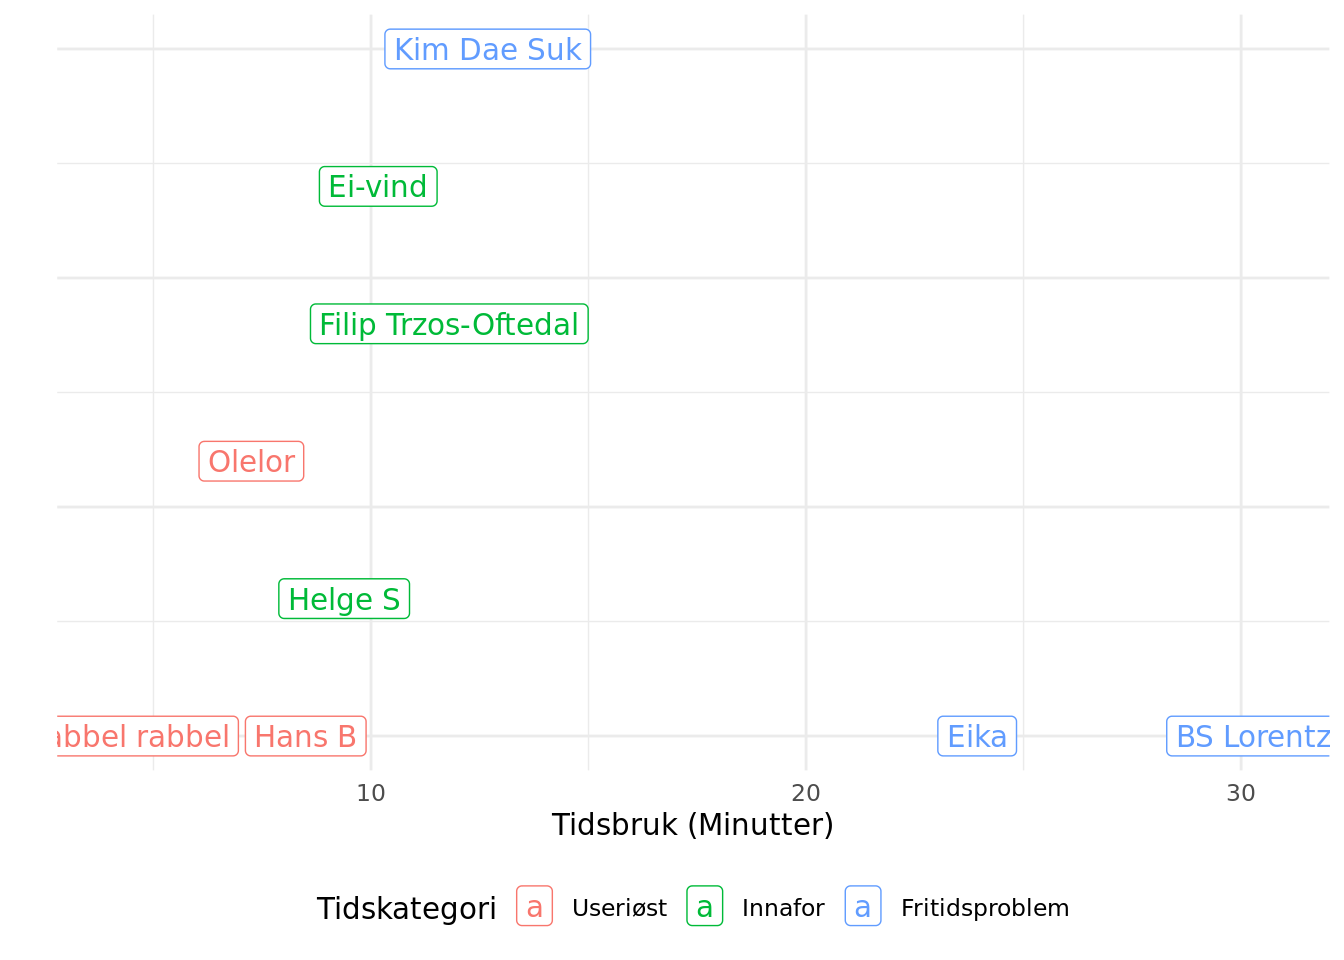
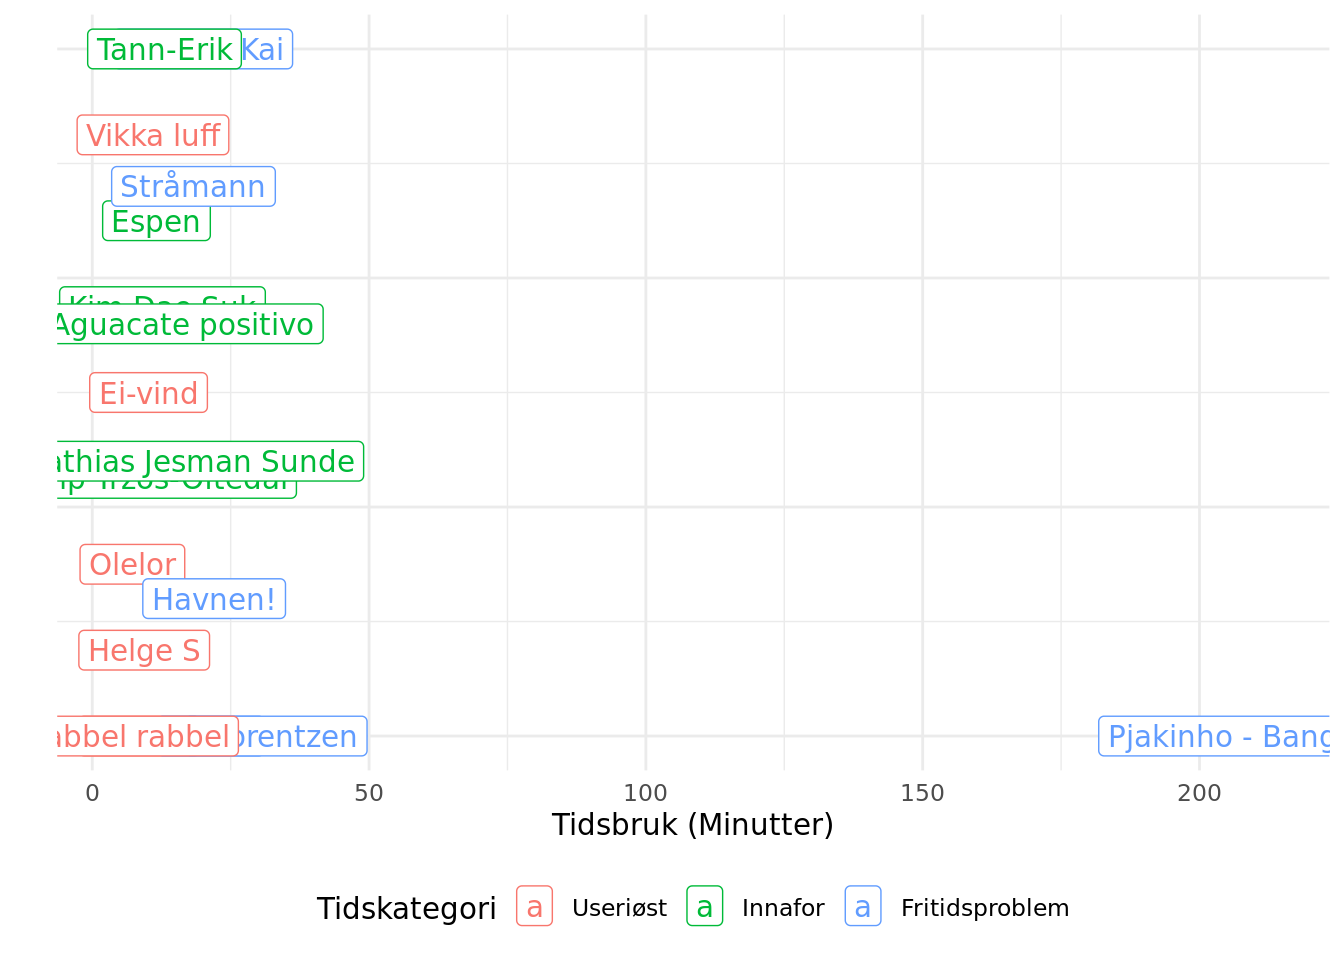
Produksjon!

diff --git a/docs/index.html b/docs/index.html
@@ -88,7 +88,7 @@ ul.task-list li input[type="checkbox"] {
 <p><img src="bilder/fifa.jpg" class="img-fluid"></p>
 <p>Denne rapporten viser resultatene fra VM-tuppekunkurransen. Utrolig avansert analyse er anvendt for å tolke innsendte tippelapper. Analysene tyter ut i figurer og tabeller i det følgende notatet. Si gjerne fra om du har forslag til analyser eller ser feil i dataene.</p>
 <p>God lesning!</p>
-<p>Notatet er oppdatert 10. juni 2026</p>
+<p>Notatet er oppdatert 11. juni 2026</p>
 <p>Alle svar som er levert inn ligger her: <a href="tippelapper.html">Tippelapper</a></p>
 <!--
 Her er pekere til tidligere versjoner av rapporten:
@@ -99,7 +99,7 @@ Her er pekere til tidligere versjoner av rapporten:
 <h2 data-number="1" class="anchored" data-anchor-id="datagrunnlag"><span class="header-section-number">1</span> Datagrunnlag</h2>
 <p><img src="bilder/lagbilde.jpg" class="img-fluid"></p>
 <p>Her kommer det sylskarpe analyser av svarene som er sendt inn. Analysene handler mest om å sette opp foreløpig stilling i tippekonkurransen, holde motet oppe for de som ikke har fått så mange rett foreløpig og å la de som har tippet ulikt få vite det. Den siste kan kanskje generere små bets foran TV-skjermen?</p>
-<p>Vi har fått inn 9 svar. Figuren viser når disse svarene har kommet inn. Mange har ventet i det lengste for å få inn så stort beslutningsgrunnlag som mulig. Andre har nok glemt å fylle ut.</p>
+<p>Vi har fått inn 18 svar. Figuren viser når disse svarene har kommet inn. Mange har ventet i det lengste for å få inn så stort beslutningsgrunnlag som mulig. Andre har nok glemt å fylle ut.</p>
 <div class="cell">
 <div class="cell-output-display">
 <div>
@@ -151,13 +151,13 @@ På kveldstid, huskeregel: når munnteipen er på, skal vi unngå lyskilder som 
 <p>Den neste tabellen viser et innblikk i grupperesultatene som var mest typiske og mest utypiske i tippekupongene. I den første tabellen vises de grupperesultatene som flest har tippet.</p>
 <div class="cell">
 <div class="cell-output-display">
-<div class="tabwid"><style>.cl-7375043a{table-layout:auto;}.cl-736b84a0{font-family:'Arial';font-size:11pt;font-weight:normal;font-style:normal;text-decoration:none;color:rgba(0, 0, 0, 1.00);background-color:transparent;}.cl-7370a76e{margin:0;text-align:left;border-bottom: 0 solid rgba(0, 0, 0, 1.00);border-top: 0 solid rgba(0, 0, 0, 1.00);border-left: 0 solid rgba(0, 0, 0, 1.00);border-right: 0 solid rgba(0, 0, 0, 1.00);padding-bottom:5pt;padding-top:5pt;padding-left:5pt;padding-right:5pt;line-height: 1;background-color:transparent;}.cl-7370d6da{background-color:transparent;vertical-align: middle;border-bottom: 1.5pt solid rgba(102, 102, 102, 1.00);border-top: 1.5pt solid rgba(102, 102, 102, 1.00);border-left: 0 solid rgba(0, 0, 0, 1.00);border-right: 0 solid rgba(0, 0, 0, 1.00);margin-bottom:0;margin-top:0;margin-left:0;margin-right:0;}.cl-7370d6e4{background-color:transparent;vertical-align: middle;border-bottom: 0 solid rgba(0, 0, 0, 1.00);border-top: 0 solid rgba(0, 0, 0, 1.00);border-left: 0 solid rgba(0, 0, 0, 1.00);border-right: 0 solid rgba(0, 0, 0, 1.00);margin-bottom:0;margin-top:0;margin-left:0;margin-right:0;}.cl-7370d6e5{background-color:transparent;vertical-align: middle;border-bottom: 1.5pt solid rgba(102, 102, 102, 1.00);border-top: 0 solid rgba(0, 0, 0, 1.00);border-left: 0 solid rgba(0, 0, 0, 1.00);border-right: 0 solid rgba(0, 0, 0, 1.00);margin-bottom:0;margin-top:0;margin-left:0;margin-right:0;}</style><table data-quarto-disable-processing="true" class="cl-7375043a"><thead><tr style="overflow-wrap:break-word;"><th class="cl-7370d6da"><p class="cl-7370a76e"><span class="cl-736b84a0">Gruppe</span></p></th><th class="cl-7370d6da"><p class="cl-7370a76e"><span class="cl-736b84a0">Mest vanlig rekkefølge</span></p></th><th class="cl-7370d6da"><p class="cl-7370a76e"><span class="cl-736b84a0">Hvem</span></p></th></tr></thead><tbody><tr style="overflow-wrap:break-word;"><td class="cl-7370d6e4"><p class="cl-7370a76e"><span class="cl-736b84a0">A</span></p></td><td class="cl-7370d6e4"><p class="cl-7370a76e"><span class="cl-736b84a0">Mexico, Sør-Korea, Tsjekkia, Sør-Afrika</span></p></td><td class="cl-7370d6e4"><p class="cl-7370a76e"><span class="cl-736b84a0">Hans B, Filip Trzos-Oftedal, Kim Dae Suk</span></p></td></tr><tr style="overflow-wrap:break-word;"><td class="cl-7370d6e4"><p class="cl-7370a76e"><span class="cl-736b84a0">B</span></p></td><td class="cl-7370d6e4"><p class="cl-7370a76e"><span class="cl-736b84a0">Sveits, Bosnia-Hercegovina, Canada, Qatar</span></p></td><td class="cl-7370d6e4"><p class="cl-7370a76e"><span class="cl-736b84a0">Hans B, Olelor, Filip Trzos-Oftedal, BS Lorentzen</span></p></td></tr><tr style="overflow-wrap:break-word;"><td class="cl-7370d6e4"><p class="cl-7370a76e"><span class="cl-736b84a0">C</span></p></td><td class="cl-7370d6e4"><p class="cl-7370a76e"><span class="cl-736b84a0">Brasil, Marokko, Skottland, Haiti</span></p></td><td class="cl-7370d6e4"><p class="cl-7370a76e"><span class="cl-736b84a0">Eika, Helge S, BS Lorentzen, Kim Dae Suk</span></p></td></tr><tr style="overflow-wrap:break-word;"><td class="cl-7370d6e5"><p class="cl-7370a76e"><span class="cl-736b84a0">D</span></p></td><td class="cl-7370d6e5"><p class="cl-7370a76e"><span class="cl-736b84a0">Tyrkia, Paraguay, USA, Australia</span></p></td><td class="cl-7370d6e5"><p class="cl-7370a76e"><span class="cl-736b84a0">Ei-vind, BS Lorentzen, C-rabbel rabbel</span></p></td></tr></tbody></table></div>
+<div class="tabwid"><style>.cl-e3f09450{table-layout:auto;}.cl-e3e86a78{font-family:'Arial';font-size:11pt;font-weight:normal;font-style:normal;text-decoration:none;color:rgba(0, 0, 0, 1.00);background-color:transparent;}.cl-e3ec0066{margin:0;text-align:left;border-bottom: 0 solid rgba(0, 0, 0, 1.00);border-top: 0 solid rgba(0, 0, 0, 1.00);border-left: 0 solid rgba(0, 0, 0, 1.00);border-right: 0 solid rgba(0, 0, 0, 1.00);padding-bottom:5pt;padding-top:5pt;padding-left:5pt;padding-right:5pt;line-height: 1;background-color:transparent;}.cl-e3ec274e{background-color:transparent;vertical-align: middle;border-bottom: 1.5pt solid rgba(102, 102, 102, 1.00);border-top: 1.5pt solid rgba(102, 102, 102, 1.00);border-left: 0 solid rgba(0, 0, 0, 1.00);border-right: 0 solid rgba(0, 0, 0, 1.00);margin-bottom:0;margin-top:0;margin-left:0;margin-right:0;}.cl-e3ec274f{background-color:transparent;vertical-align: middle;border-bottom: 0 solid rgba(0, 0, 0, 1.00);border-top: 0 solid rgba(0, 0, 0, 1.00);border-left: 0 solid rgba(0, 0, 0, 1.00);border-right: 0 solid rgba(0, 0, 0, 1.00);margin-bottom:0;margin-top:0;margin-left:0;margin-right:0;}.cl-e3ec2758{background-color:transparent;vertical-align: middle;border-bottom: 1.5pt solid rgba(102, 102, 102, 1.00);border-top: 0 solid rgba(0, 0, 0, 1.00);border-left: 0 solid rgba(0, 0, 0, 1.00);border-right: 0 solid rgba(0, 0, 0, 1.00);margin-bottom:0;margin-top:0;margin-left:0;margin-right:0;}</style><table data-quarto-disable-processing="true" class="cl-e3f09450"><thead><tr style="overflow-wrap:break-word;"><th class="cl-e3ec274e"><p class="cl-e3ec0066"><span class="cl-e3e86a78">Gruppe</span></p></th><th class="cl-e3ec274e"><p class="cl-e3ec0066"><span class="cl-e3e86a78">Mest vanlig rekkefølge</span></p></th><th class="cl-e3ec274e"><p class="cl-e3ec0066"><span class="cl-e3e86a78">Hvem</span></p></th></tr></thead><tbody><tr style="overflow-wrap:break-word;"><td class="cl-e3ec274f"><p class="cl-e3ec0066"><span class="cl-e3e86a78">A</span></p></td><td class="cl-e3ec274f"><p class="cl-e3ec0066"><span class="cl-e3e86a78">Mexico, Sør-Korea, Tsjekkia, Sør-Afrika</span></p></td><td class="cl-e3ec274f"><p class="cl-e3ec0066"><span class="cl-e3e86a78">Hans B, Filip Trzos-Oftedal, Kim Dae Suk, Havnen!, Mathias Jesman Sunde, Aguacate positivo, Pjakinho - Bangkok FC, Stråmann, Bøgvall Kai, Vikka luff</span></p></td></tr><tr style="overflow-wrap:break-word;"><td class="cl-e3ec274f"><p class="cl-e3ec0066"><span class="cl-e3e86a78">B</span></p></td><td class="cl-e3ec274f"><p class="cl-e3ec0066"><span class="cl-e3e86a78">Sveits, Bosnia-Hercegovina, Canada, Qatar</span></p></td><td class="cl-e3ec274f"><p class="cl-e3ec0066"><span class="cl-e3e86a78">Hans B, Olelor, Filip Trzos-Oftedal, BS Lorentzen, Havnen!, Mathias Jesman Sunde, Espen, Pjakinho - Bangkok FC</span></p></td></tr><tr style="overflow-wrap:break-word;"><td class="cl-e3ec274f"><p class="cl-e3ec0066"><span class="cl-e3e86a78">C</span></p></td><td class="cl-e3ec274f"><p class="cl-e3ec0066"><span class="cl-e3e86a78">Brasil, Marokko, Skottland, Haiti</span></p></td><td class="cl-e3ec274f"><p class="cl-e3ec0066"><span class="cl-e3e86a78">Eika, Helge S, BS Lorentzen, Kim Dae Suk, Havnen!, Espen, Aguacate positivo, Pjakinho - Bangkok FC, Stråmann, Bøgvall Kai, Vikka luff</span></p></td></tr><tr style="overflow-wrap:break-word;"><td class="cl-e3ec2758"><p class="cl-e3ec0066"><span class="cl-e3e86a78">D</span></p></td><td class="cl-e3ec2758"><p class="cl-e3ec0066"><span class="cl-e3e86a78">Tyrkia, USA, Paraguay, Australia</span></p></td><td class="cl-e3ec2758"><p class="cl-e3ec0066"><span class="cl-e3e86a78">Hans B, Helge S, Kim Dae Suk, Aguacate positivo, Stråmann</span></p></td></tr></tbody></table></div>
 </div>
 </div>
 <p>I den neste tabellen vises de grupperesultatene som færrest har valgt. Husk å si fra til de som har tippet mest idiotisk!</p>
 <div class="cell">
 <div class="cell-output-display">
-<div class="tabwid"><style>.cl-73893518{table-layout:auto;}.cl-7380f8da{font-family:'Arial';font-size:11pt;font-weight:normal;font-style:normal;text-decoration:none;color:rgba(0, 0, 0, 1.00);background-color:transparent;}.cl-73840962{margin:0;text-align:left;border-bottom: 0 solid rgba(0, 0, 0, 1.00);border-top: 0 solid rgba(0, 0, 0, 1.00);border-left: 0 solid rgba(0, 0, 0, 1.00);border-right: 0 solid rgba(0, 0, 0, 1.00);padding-bottom:5pt;padding-top:5pt;padding-left:5pt;padding-right:5pt;line-height: 1;background-color:transparent;}.cl-73842c80{background-color:transparent;vertical-align: middle;border-bottom: 1.5pt solid rgba(102, 102, 102, 1.00);border-top: 1.5pt solid rgba(102, 102, 102, 1.00);border-left: 0 solid rgba(0, 0, 0, 1.00);border-right: 0 solid rgba(0, 0, 0, 1.00);margin-bottom:0;margin-top:0;margin-left:0;margin-right:0;}.cl-73842c8a{background-color:transparent;vertical-align: middle;border-bottom: 0 solid rgba(0, 0, 0, 1.00);border-top: 0 solid rgba(0, 0, 0, 1.00);border-left: 0 solid rgba(0, 0, 0, 1.00);border-right: 0 solid rgba(0, 0, 0, 1.00);margin-bottom:0;margin-top:0;margin-left:0;margin-right:0;}.cl-73842c8b{background-color:transparent;vertical-align: middle;border-bottom: 1.5pt solid rgba(102, 102, 102, 1.00);border-top: 0 solid rgba(0, 0, 0, 1.00);border-left: 0 solid rgba(0, 0, 0, 1.00);border-right: 0 solid rgba(0, 0, 0, 1.00);margin-bottom:0;margin-top:0;margin-left:0;margin-right:0;}</style><table data-quarto-disable-processing="true" class="cl-73893518"><thead><tr style="overflow-wrap:break-word;"><th class="cl-73842c80"><p class="cl-73840962"><span class="cl-7380f8da">Gruppe</span></p></th><th class="cl-73842c80"><p class="cl-73840962"><span class="cl-7380f8da">Mest uvanlige rekkefølge</span></p></th><th class="cl-73842c80"><p class="cl-73840962"><span class="cl-7380f8da">Hvem</span></p></th></tr></thead><tbody><tr style="overflow-wrap:break-word;"><td class="cl-73842c8a"><p class="cl-73840962"><span class="cl-7380f8da">A</span></p></td><td class="cl-73842c8a"><p class="cl-73840962"><span class="cl-7380f8da">Mexico, Tsjekkia, Sør-Afrika, Sør-Korea</span></p></td><td class="cl-73842c8a"><p class="cl-73840962"><span class="cl-7380f8da">C-rabbel rabbel</span></p></td></tr><tr style="overflow-wrap:break-word;"><td class="cl-73842c8a"><p class="cl-73840962"><span class="cl-7380f8da">B</span></p></td><td class="cl-73842c8a"><p class="cl-73840962"><span class="cl-7380f8da">Sveits, Qatar, Bosnia-Hercegovina, Canada</span></p></td><td class="cl-73842c8a"><p class="cl-73840962"><span class="cl-7380f8da">Eika</span></p></td></tr><tr style="overflow-wrap:break-word;"><td class="cl-73842c8a"><p class="cl-73840962"><span class="cl-7380f8da">C</span></p></td><td class="cl-73842c8a"><p class="cl-73840962"><span class="cl-7380f8da">Brasil, Marokko, Haiti, Skottland</span></p></td><td class="cl-73842c8a"><p class="cl-73840962"><span class="cl-7380f8da">Ei-vind</span></p></td></tr><tr style="overflow-wrap:break-word;"><td class="cl-73842c8b"><p class="cl-73840962"><span class="cl-7380f8da">D</span></p></td><td class="cl-73842c8b"><p class="cl-73840962"><span class="cl-7380f8da">USA, Tyrkia, Paraguay, Australia</span></p></td><td class="cl-73842c8b"><p class="cl-73840962"><span class="cl-7380f8da">Filip Trzos-Oftedal</span></p></td></tr></tbody></table></div>
+<div class="tabwid"><style>.cl-e404dc62{table-layout:auto;}.cl-e3fe1580{font-family:'Arial';font-size:11pt;font-weight:normal;font-style:normal;text-decoration:none;color:rgba(0, 0, 0, 1.00);background-color:transparent;}.cl-e4010c54{margin:0;text-align:left;border-bottom: 0 solid rgba(0, 0, 0, 1.00);border-top: 0 solid rgba(0, 0, 0, 1.00);border-left: 0 solid rgba(0, 0, 0, 1.00);border-right: 0 solid rgba(0, 0, 0, 1.00);padding-bottom:5pt;padding-top:5pt;padding-left:5pt;padding-right:5pt;line-height: 1;background-color:transparent;}.cl-e4012cd4{background-color:transparent;vertical-align: middle;border-bottom: 1.5pt solid rgba(102, 102, 102, 1.00);border-top: 1.5pt solid rgba(102, 102, 102, 1.00);border-left: 0 solid rgba(0, 0, 0, 1.00);border-right: 0 solid rgba(0, 0, 0, 1.00);margin-bottom:0;margin-top:0;margin-left:0;margin-right:0;}.cl-e4012ce8{background-color:transparent;vertical-align: middle;border-bottom: 0 solid rgba(0, 0, 0, 1.00);border-top: 0 solid rgba(0, 0, 0, 1.00);border-left: 0 solid rgba(0, 0, 0, 1.00);border-right: 0 solid rgba(0, 0, 0, 1.00);margin-bottom:0;margin-top:0;margin-left:0;margin-right:0;}.cl-e4012ce9{background-color:transparent;vertical-align: middle;border-bottom: 1.5pt solid rgba(102, 102, 102, 1.00);border-top: 0 solid rgba(0, 0, 0, 1.00);border-left: 0 solid rgba(0, 0, 0, 1.00);border-right: 0 solid rgba(0, 0, 0, 1.00);margin-bottom:0;margin-top:0;margin-left:0;margin-right:0;}</style><table data-quarto-disable-processing="true" class="cl-e404dc62"><thead><tr style="overflow-wrap:break-word;"><th class="cl-e4012cd4"><p class="cl-e4010c54"><span class="cl-e3fe1580">Gruppe</span></p></th><th class="cl-e4012cd4"><p class="cl-e4010c54"><span class="cl-e3fe1580">Mest uvanlige rekkefølge</span></p></th><th class="cl-e4012cd4"><p class="cl-e4010c54"><span class="cl-e3fe1580">Hvem</span></p></th></tr></thead><tbody><tr style="overflow-wrap:break-word;"><td class="cl-e4012ce8"><p class="cl-e4010c54"><span class="cl-e3fe1580">A</span></p></td><td class="cl-e4012ce8"><p class="cl-e4010c54"><span class="cl-e3fe1580">Mexico, Tsjekkia, Sør-Afrika, Sør-Korea</span></p></td><td class="cl-e4012ce8"><p class="cl-e4010c54"><span class="cl-e3fe1580">C-rabbel rabbel</span></p></td></tr><tr style="overflow-wrap:break-word;"><td class="cl-e4012ce8"><p class="cl-e4010c54"><span class="cl-e3fe1580">B</span></p></td><td class="cl-e4012ce8"><p class="cl-e4010c54"><span class="cl-e3fe1580">Sveits, Qatar, Bosnia-Hercegovina, Canada</span></p></td><td class="cl-e4012ce8"><p class="cl-e4010c54"><span class="cl-e3fe1580">Eika</span></p></td></tr><tr style="overflow-wrap:break-word;"><td class="cl-e4012ce8"><p class="cl-e4010c54"><span class="cl-e3fe1580">C</span></p></td><td class="cl-e4012ce8"><p class="cl-e4010c54"><span class="cl-e3fe1580">Brasil, Marokko, Haiti, Skottland</span></p></td><td class="cl-e4012ce8"><p class="cl-e4010c54"><span class="cl-e3fe1580">Ei-vind</span></p></td></tr><tr style="overflow-wrap:break-word;"><td class="cl-e4012ce9"><p class="cl-e4010c54"><span class="cl-e3fe1580">D</span></p></td><td class="cl-e4012ce9"><p class="cl-e4010c54"><span class="cl-e3fe1580">USA, Tyrkia, Australia, Paraguay</span></p></td><td class="cl-e4012ce9"><p class="cl-e4010c54"><span class="cl-e3fe1580">Tann-Erik</span></p></td></tr></tbody></table></div>
 </div>
 </div>
 </section>
